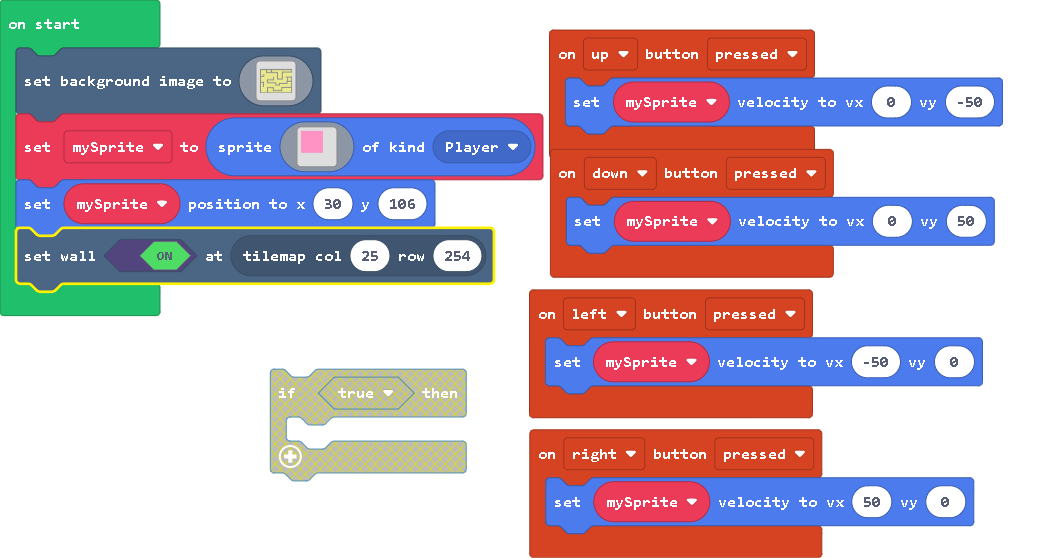
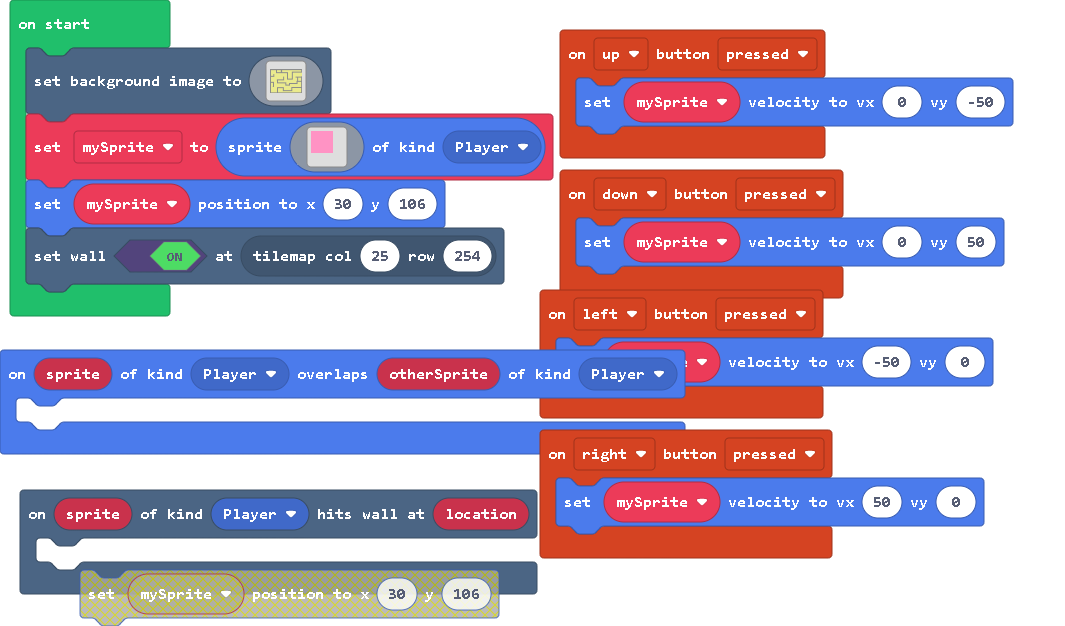
Update main.blocks, main.ts, main.py

diff --git a/main.ts b/main.ts
@@ -1,6 +1,9 @@
 controller.up.onEvent(ControllerButtonEvent.Pressed, function () {
     mySprite.setVelocity(0, -50)
 })
+scene.onHitWall(SpriteKind.Player, function (sprite, location) {
+	
+})
 controller.left.onEvent(ControllerButtonEvent.Pressed, function () {
     mySprite.setVelocity(-50, 0)
 })
@@ -9,6 +12,9 @@ controller.right.onEvent(ControllerButtonEvent.Pressed, function () {
 })
 controller.down.onEvent(ControllerButtonEvent.Pressed, function () {
     mySprite.setVelocity(0, 50)
+})
+sprites.onOverlap(SpriteKind.Player, SpriteKind.Player, function (sprite, otherSprite) {
+	
 })
 let mySprite: Sprite = null
 scene.setBackgroundImage(img`

diff --git a/main.py b/main.py
@@ -1,2 +1,160 @@
-scene.set_background_color(7)
-effects.confetti.start_screen_effect()
+def on_up_pressed():
+    mySprite.set_velocity(0, -50)
+controller.up.on_event(ControllerButtonEvent.PRESSED, on_up_pressed)
+
+def on_left_pressed():
+    mySprite.set_velocity(-50, 0)
+controller.left.on_event(ControllerButtonEvent.PRESSED, on_left_pressed)
+
+def on_right_pressed():
+    mySprite.set_velocity(50, 0)
+controller.right.on_event(ControllerButtonEvent.PRESSED, on_right_pressed)
+
+def on_down_pressed():
+    mySprite.set_velocity(0, 50)
+controller.down.on_event(ControllerButtonEvent.PRESSED, on_down_pressed)
+
+mySprite: Sprite = None
+scene.set_background_image(img("""
+    ffffffffffffffffffffffffffffffffffffffffffffffffffffffffffffffffffffffffffffffffffffffffffffffffffffffffffffffffffffffffffffffffffffffffffffffffffffffffffffffff
+        ffffffffffffffffffffffffffffffffffffffffffffffffffffffffffffffffffffffffffffffffffffffffffffffffffffffffffffffffffffffffffffffffffffffffffffffffffffffffffffffff
+        ffffffffffffffffffffffffffffffffffffffffffffffffffffffffffffffffffffffffffffffffffffffffffffffffffffffffffffffffffffffffffffffffffffffffffffffffffffffffffffffff
+        ffffffffffffffffffffffffffffffffffffffffffffffffffffffffffffffffffffffffffffffffffffffffffffffffffffffffffffffffffffffffffffffffffffffffffffffffffffffffffffffff
+        ffffffffffffffffffffffffffffffffffffffffffffffffffffffffffffffffffffffffffffffffffffffffffffffffffffffffffffffffffffffffffffffffffffffffffffffffffffffffffffffff
+        ffffffffffffffffffffffffffffffffffffffffffffffffffffffffffffffffffffffffffffffffffffffffffffffffffffffffffffffffffffffffffffffffffffffffffffffffffffffffffffffff
[111 lines of base64/hex data omitted]
+        ffffffffffffffffffffffffffffffffffffffffffffffffffffffffffffffffffffffffffffffffffffffffffffffffffffffffffffffffffffffffffffffffffffffffffffffffffffffffffffffff
+        ffffffffffffffffffffffffffffffffffffffffffffffffffffffffffffffffffffffffffffffffffffffffffffffffffffffffffffffffffffffffffffffffffffffffffffffffffffffffffffffff
+        ffffffffffffffffffffffffffffffffffffffffffffffffffffffffffffffffffffffffffffffffffffffffffffffffffffffffffffffffffffffffffffffffffffffffffffffffffffffffffffffff
+"""))
+mySprite = sprites.create(img("""
+        3 3 3 3 3 3 3 3 3 3 3 . . . . . 
+            3 3 3 3 3 3 3 3 3 3 3 . . . . . 
+            3 3 3 3 3 3 3 3 3 3 3 . . . . . 
+            3 3 3 3 3 3 3 3 3 3 3 . . . . . 
+            3 3 3 3 3 3 3 3 3 3 3 . . . . . 
+            3 3 3 3 3 3 3 3 3 3 3 . . . . . 
+            3 3 3 3 3 3 3 3 3 3 3 . . . . . 
+            3 3 3 3 3 3 3 3 3 3 3 . . . . . 
+            3 3 3 3 3 3 3 3 3 3 3 . . . . . 
+            3 3 3 3 3 3 3 3 3 3 3 . . . . . 
+            3 3 3 3 3 3 3 3 3 3 3 . . . . . 
+            . . . . . . . . . . . . . . . . 
+            . . . . . . . . . . . . . . . . 
+            . . . . . . . . . . . . . . . . 
+            . . . . . . . . . . . . . . . . 
+            . . . . . . . . . . . . . . . .
+    """),
+    SpriteKind.player)
+mySprite.set_position(30, 106)
+tiles.set_wall_at(tiles.get_tile_location(25, 254), True)
